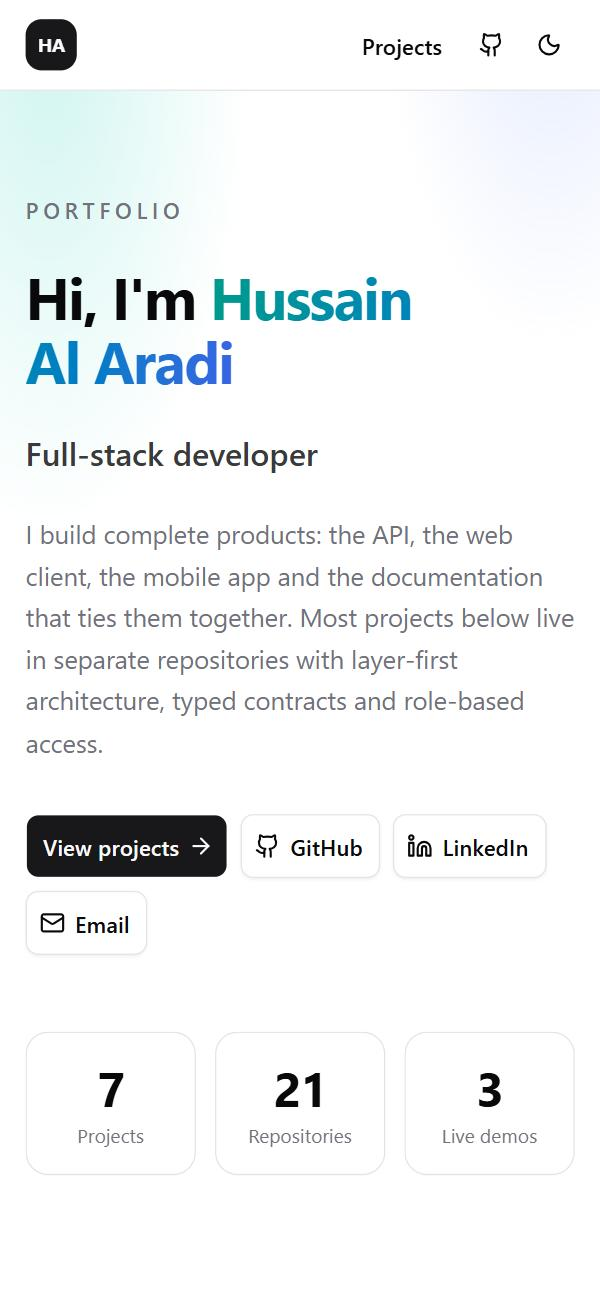
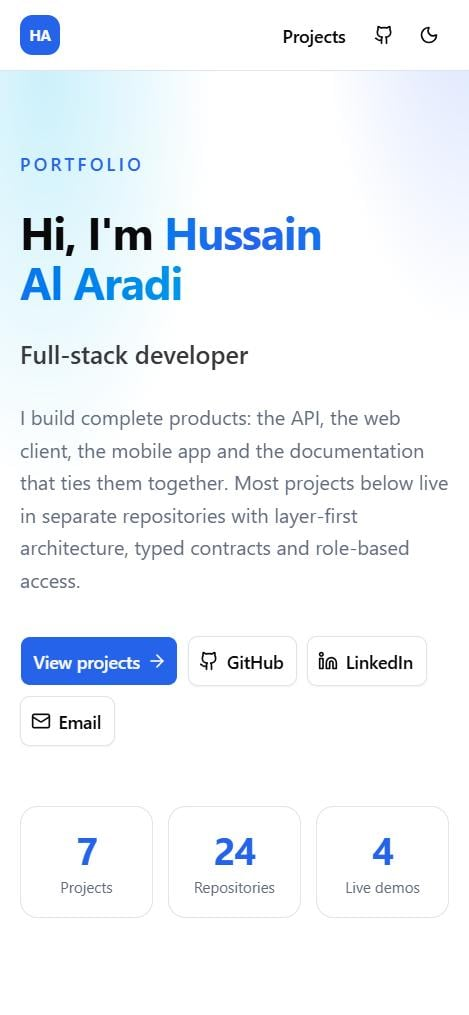
Add a blue theme, a richer dark mode and motion
Replace the grey palette with blue brand tokens in light and dark,
give dark mode a navy background with soft blue glows and a dot grid
behind the hero, and add a staggered hero entrance, a drifting glow,
scroll-reveal and hover lift on project cards. All motion is off under
prefers-reduced-motion. Refresh the README screenshots and record the
work in phase 06.

diff --git a/src/styles.css b/src/styles.css
@@ -23,26 +23,26 @@ color-scheme: light;
 --card-foreground: oklch(0.141 0.005 285.823);
 --popover: oklch(1 0 0);
 --popover-foreground: oklch(0.141 0.005 285.823);
---primary: oklch(0.21 0.006 285.885);
+--primary: oklch(0.546 0.215 262.9);
 --primary-foreground: oklch(0.985 0 0);
---secondary: oklch(0.967 0.001 286.375);
---secondary-foreground: oklch(0.21 0.006 285.885);
---muted: oklch(0.967 0.001 286.375);
---muted-foreground: oklch(0.552 0.016 285.938);
---accent: oklch(0.967 0.001 286.375);
---accent-foreground: oklch(0.21 0.006 285.885);
+--secondary: oklch(0.965 0.012 255);
+--secondary-foreground: oklch(0.3 0.09 264);
+--muted: oklch(0.967 0.008 255);
+--muted-foreground: oklch(0.53 0.03 260);
+--accent: oklch(0.955 0.025 255);
+--accent-foreground: oklch(0.38 0.15 264);
 --destructive: oklch(0.577 0.245 27.325);
---border: oklch(0.92 0.004 286.32);
---input: oklch(0.92 0.004 286.32);
---ring: oklch(0.705 0.015 286.067);
+--border: oklch(0.915 0.014 255);
+--input: oklch(0.915 0.014 255);
+--ring: oklch(0.623 0.188 259.8);
 --sidebar: oklch(0.985 0 0);
 --sidebar-foreground: oklch(0.141 0.005 285.823);
---sidebar-primary: oklch(0.21 0.006 285.885);
+--sidebar-primary: oklch(0.546 0.215 262.9);
 --sidebar-primary-foreground: oklch(0.985 0 0);
 --sidebar-accent: oklch(0.967 0.001 286.375);
 --sidebar-accent-foreground: oklch(0.21 0.006 285.885);
 --sidebar-border: oklch(0.92 0.004 286.32);
---sidebar-ring: oklch(0.705 0.015 286.067);
+--sidebar-ring: oklch(0.623 0.188 259.8);
 }
 
 :root.dark {
@@ -53,32 +53,32 @@ color-scheme: dark;
 --chart-3: oklch(0.769 0.188 70.08);
 --chart-4: oklch(0.627 0.265 303.9);
 --chart-5: oklch(0.645 0.246 16.439);
---background: oklch(0.141 0.005 285.823);
+--background: oklch(0.16 0.022 263);
 --foreground: oklch(0.985 0 0);
---card: oklch(0.21 0.006 285.885);
+--card: oklch(0.2 0.028 263);
 --card-foreground: oklch(0.985 0 0);
---popover: oklch(0.21 0.006 285.885);
+--popover: oklch(0.2 0.028 263);
 --popover-foreground: oklch(0.985 0 0);
---primary: oklch(0.92 0.004 286.32);
---primary-foreground: oklch(0.21 0.006 285.885);
---secondary: oklch(0.274 0.006 286.033);
+--primary: oklch(0.7 0.155 254);
+--primary-foreground: oklch(0.17 0.03 263);
+--secondary: oklch(0.27 0.035 263);
 --secondary-foreground: oklch(0.985 0 0);
---muted: oklch(0.274 0.006 286.033);
---muted-foreground: oklch(0.705 0.015 286.067);
---accent: oklch(0.274 0.006 286.033);
+--muted: oklch(0.27 0.035 263);
+--muted-foreground: oklch(0.72 0.035 258);
+--accent: oklch(0.29 0.05 263);
 --accent-foreground: oklch(0.985 0 0);
 --destructive: oklch(0.704 0.191 22.216);
---border: oklch(1 0 0 / 10%);
---input: oklch(1 0 0 / 15%);
---ring: oklch(0.552 0.016 285.938);
---sidebar: oklch(0.21 0.006 285.885);
+--border: oklch(0.75 0.08 260 / 14%);
+--input: oklch(0.75 0.08 260 / 18%);
+--ring: oklch(0.62 0.17 258);
+--sidebar: oklch(0.2 0.028 263);
 --sidebar-foreground: oklch(0.985 0 0);
---sidebar-primary: oklch(0.985 0 0);
+--sidebar-primary: oklch(0.7 0.155 254);
 --sidebar-primary-foreground: oklch(0.21 0.006 285.885);
---sidebar-accent: oklch(0.274 0.006 286.033);
+--sidebar-accent: oklch(0.29 0.05 263);
 --sidebar-accent-foreground: oklch(0.985 0 0);
---sidebar-border: oklch(1 0 0 / 10%);
---sidebar-ring: oklch(0.552 0.016 285.938);
+--sidebar-border: oklch(0.75 0.08 260 / 14%);
+--sidebar-ring: oklch(0.62 0.17 258);
 }
 
 @layer base {
@@ -88,4 +88,29 @@ color-scheme: dark;
 body {
 @apply bg-background text-foreground;
 }
+}
+@layer base {
+::selection {
+@apply bg-primary/25;
+}
+}
+
+@media (prefers-reduced-motion: no-preference) {
+html {
+scroll-behavior: smooth;
+}
+}
+
+/* Dark mode: deep navy with soft blue light, so the page has depth instead of flat black. */
+:root.dark body {
+background-image:
+radial-gradient(60rem 40rem at 10% -10%, oklch(0.45 0.16 263 / 0.22), transparent 70%),
+radial-gradient(50rem 35rem at 100% 30%, oklch(0.5 0.13 225 / 0.12), transparent 70%),
+radial-gradient(45rem 30rem at 30% 110%, oklch(0.42 0.17 280 / 0.12), transparent 70%);
+background-attachment: fixed;
+}
+
+:root.dark [data-slot='card'] {
+background-image: linear-gradient(180deg, oklch(1 0 0 / 0.035), transparent 40%);
+box-shadow: inset 0 1px 0 oklch(1 0 0 / 0.06);
 }

diff --git a/src/app/components/home/hero-section/hero-section.component.css b/src/app/components/home/hero-section/hero-section.component.css
@@ -9,14 +9,92 @@
   height: 120%;
   z-index: -1;
   background:
-    radial-gradient(40% 50% at 15% 30%, oklch(0.75 0.14 180 / 0.18), transparent 70%),
-    radial-gradient(35% 45% at 85% 20%, oklch(0.6 0.2 265 / 0.16), transparent 70%);
+    radial-gradient(40% 50% at 15% 30%, oklch(0.72 0.15 225 / 0.2), transparent 70%),
+    radial-gradient(35% 45% at 85% 20%, oklch(0.58 0.21 263 / 0.2), transparent 70%);
   pointer-events: none;
 }
 
+/* Faint dot grid behind the hero copy in dark mode, fading out towards the edges. */
+:host-context(.dark) .hero::after {
+  content: '';
+  position: absolute;
+  inset: 0;
+  z-index: -1;
+  background-image: radial-gradient(oklch(0.8 0.08 255 / 0.14) 1px, transparent 1px);
+  background-size: 22px 22px;
+  mask-image: radial-gradient(70% 60% at 30% 40%, black, transparent 75%);
+  pointer-events: none;
+}
+
+:host-context(.dark) .hero-name {
+  filter: drop-shadow(0 0 24px oklch(0.6 0.2 260 / 0.35));
+}
+
 .hero-name {
-  background: linear-gradient(90deg, oklch(0.6 0.14 185), oklch(0.55 0.2 265));
+  background: linear-gradient(90deg, oklch(0.55 0.22 263), oklch(0.68 0.16 230), oklch(0.55 0.22 263));
+  background-size: 200% auto;
   -webkit-background-clip: text;
   background-clip: text;
   color: transparent;
+}
+
+.hero-stat {
+  transition:
+    transform 200ms ease,
+    border-color 200ms ease;
+}
+
+.hero-stat:hover {
+  transform: translateY(-2px);
+  border-color: color-mix(in oklch, var(--primary) 45%, transparent);
+}
+
+/* Motion only for visitors who have not asked to reduce it. */
+@media (prefers-reduced-motion: no-preference) {
+  .hero::before {
+    animation: hero-drift 18s ease-in-out infinite alternate;
+  }
+
+  .hero-name {
+    animation: hero-shine 8s linear infinite;
+  }
+
+  .hero-enter > * {
+    animation: hero-rise 700ms cubic-bezier(0.22, 1, 0.36, 1) both;
+  }
+
+  .hero-enter > :nth-child(2) {
+    animation-delay: 80ms;
+  }
+
+  .hero-enter > :nth-child(3) {
+    animation-delay: 160ms;
+  }
+
+  .hero-enter > :nth-child(4) {
+    animation-delay: 240ms;
+  }
+
+  .hero-enter > :nth-child(5) {
+    animation-delay: 320ms;
+  }
+}
+
+@keyframes hero-drift {
+  to {
+    transform: translate3d(4%, 6%, 0) scale(1.08);
+  }
+}
+
+@keyframes hero-shine {
+  to {
+    background-position: 200% center;
+  }
+}
+
+@keyframes hero-rise {
+  from {
+    opacity: 0;
+    transform: translateY(16px);
+  }
 }

diff --git a/src/app/components/home/hero-section/hero-section.component.html b/src/app/components/home/hero-section/hero-section.component.html
@@ -1,7 +1,7 @@
 <section class="hero relative overflow-hidden">
   <div class="mx-auto grid max-w-6xl gap-12 px-4 pt-16 pb-12 sm:px-6 sm:pt-24 lg:grid-cols-[1.4fr_1fr] lg:items-end">
-    <div class="space-y-6">
-      <p class="text-sm font-medium uppercase tracking-[0.2em] text-muted-foreground">{{ text.hero.eyebrow }}</p>
+    <div class="hero-enter space-y-6">
+      <p class="text-sm font-medium uppercase tracking-[0.2em] text-primary">{{ text.hero.eyebrow }}</p>
       <h1 class="text-4xl font-bold tracking-tight text-balance sm:text-5xl lg:text-6xl">
         {{ text.hero.greeting }} <span class="hero-name">{{ profile.name }}</span>
       </h1>
@@ -22,10 +22,10 @@
       </div>
     </div>
 
-    <dl class="grid grid-cols-3 gap-3">
+    <dl class="hero-enter grid grid-cols-3 gap-3">
       @for (stat of stats(); track stat.label) {
-        <div class="rounded-xl border bg-card/60 p-4 text-center backdrop-blur">
-          <dd class="text-3xl font-bold tracking-tight sm:text-4xl">{{ stat.value }}</dd>
+        <div class="hero-stat rounded-xl border bg-card/60 p-4 text-center backdrop-blur">
+          <dd class="text-3xl font-bold tracking-tight text-primary sm:text-4xl">{{ stat.value }}</dd>
           <dt class="mt-1 text-xs text-muted-foreground sm:text-sm">{{ stat.label }}</dt>
         </div>
       }

diff --git a/src/app/components/projects/project-card/project-card.component.html b/src/app/components/projects/project-card/project-card.component.html
@@ -1,4 +1,7 @@
-<article hlmCard class="group/card h-full gap-0 overflow-hidden py-0 transition-shadow hover:shadow-lg">
+<article
+  hlmCard
+  class="group/card h-full gap-0 overflow-hidden py-0 transition duration-300 hover:-translate-y-1 hover:border-primary/40 hover:shadow-xl hover:shadow-primary/10 motion-reduce:transition-none motion-reduce:hover:translate-y-0"
+>
   <a [routerLink]="detailLink()" class="block" [attr.aria-label]="project().name">
     <app-project-cover [project]="project()" [eager]="eager()" />
   </a>
@@ -15,7 +18,7 @@
       <span class="ms-auto text-xs text-muted-foreground">{{ project().period }}</span>
     </div>
     <h3 hlmCardTitle class="text-lg">
-      <a [routerLink]="detailLink()" class="hover:underline underline-offset-4">{{ project().name }}</a>
+      <a [routerLink]="detailLink()" class="transition-colors hover:text-primary">{{ project().name }}</a>
     </h3>
     <p hlmCardDescription>{{ project().tagline }}</p>
   </div>

diff --git a/src/app/components/projects/project-card/project-card.component.css b/src/app/components/projects/project-card/project-card.component.css
@@ -1,3 +1,21 @@
 :host {
   display: block;
 }
+
+/* Cards fade up as they scroll into view, where the browser supports scroll-driven animations. */
+@supports (animation-timeline: view()) {
+  @media (prefers-reduced-motion: no-preference) {
+    :host {
+      animation: card-reveal linear both;
+      animation-timeline: view();
+      animation-range: entry 0% entry 40%;
+    }
+  }
+}
+
+@keyframes card-reveal {
+  from {
+    opacity: 0;
+    transform: translateY(24px);
+  }
+}

diff --git a/src/app/components/projects/project-cover/project-cover.component.css b/src/app/components/projects/project-cover/project-cover.component.css
@@ -4,7 +4,7 @@
 
 .cover-fallback {
   background:
-    radial-gradient(circle at 20% 20%, oklch(0.7 0.15 180 / 0.9), transparent 55%),
-    radial-gradient(circle at 80% 80%, oklch(0.55 0.2 260 / 0.9), transparent 55%),
-    oklch(0.3 0.05 250);
+    radial-gradient(circle at 20% 20%, oklch(0.72 0.15 225 / 0.9), transparent 55%),
+    radial-gradient(circle at 80% 80%, oklch(0.55 0.21 263 / 0.9), transparent 55%),
+    oklch(0.3 0.07 262);
 }

diff --git a/src/app/components/common/section-heading/section-heading.component.html b/src/app/components/common/section-heading/section-heading.component.html
@@ -1,4 +1,5 @@
 <div class="space-y-1.5">
+  <span class="mb-3 block h-1 w-12 rounded-full bg-gradient-to-r from-primary to-sky-400" aria-hidden="true"></span>
   <h2 class="text-2xl font-semibold tracking-tight sm:text-3xl">{{ heading() }}</h2>
   @if (subtitle(); as text) {
     <p class="text-muted-foreground">{{ text }}</p>

diff --git a/phases/phase-06-client-screens/README.md b/phases/phase-06-client-screens/README.md
@@ -18,6 +18,8 @@ Home page with filterable project cards and a detail page per project.
 - [x] Cards with cover thumbnail, status, stack badges and repository count
 - [x] Detail page with gallery and private-repository labels
 - [x] Light and dark themes; phone layout without horizontal scroll
+- [x] Blue brand palette in `src/styles.css`, with a navy dark theme lit by soft blue glows and a dot grid behind the hero
+- [x] Motion: staggered hero entrance, drifting hero glow, cards that fade up on scroll and lift on hover; all of it off under `prefers-reduced-motion`
 
 ## Acceptance criteria
 - All seven projects open from the home page.
@@ -29,6 +31,10 @@ Home page with filterable project cards and a detail page per project.
 | Screens | Browser at desktop and 375px, light and dark | Passed on 2026-11-05; screenshots in `docs/screenshots/` |
 | Horizontal scroll at 375px | `scrollWidth > clientWidth` in the browser | false on 2026-11-05 |
 | Console errors | Browser console | None on 2026-11-05 |
+| Blue theme and motion | Browser at desktop and 375px, light and dark | Passed on 2026-11-06; screenshots in `docs/screenshots/` refreshed |
+| Horizontal scroll at 375px after the theme change | `scrollWidth <= innerWidth` in the browser | true on 2026-11-06 |
+| Console errors after the theme change | Browser console | None on 2026-11-06 |
 
 ## Risks and open questions
+- Scroll-reveal on cards uses CSS scroll-driven animations; browsers without them (Firefox today) show the cards without the effect.
 - CareTrack shows an icon cover until it has screenshots.
